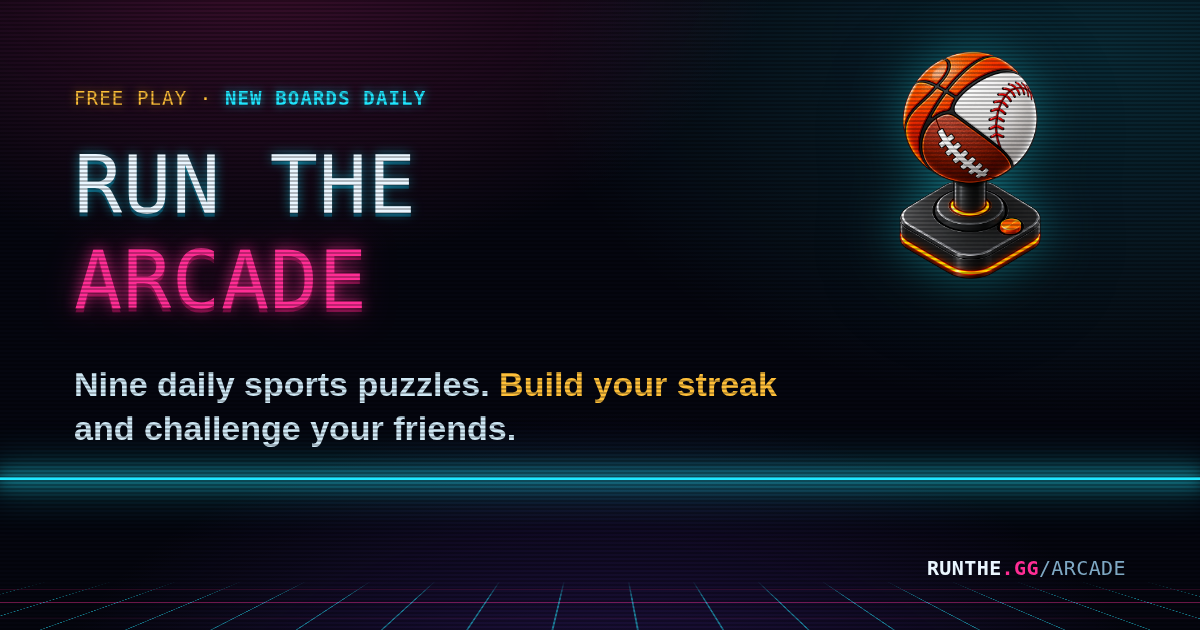
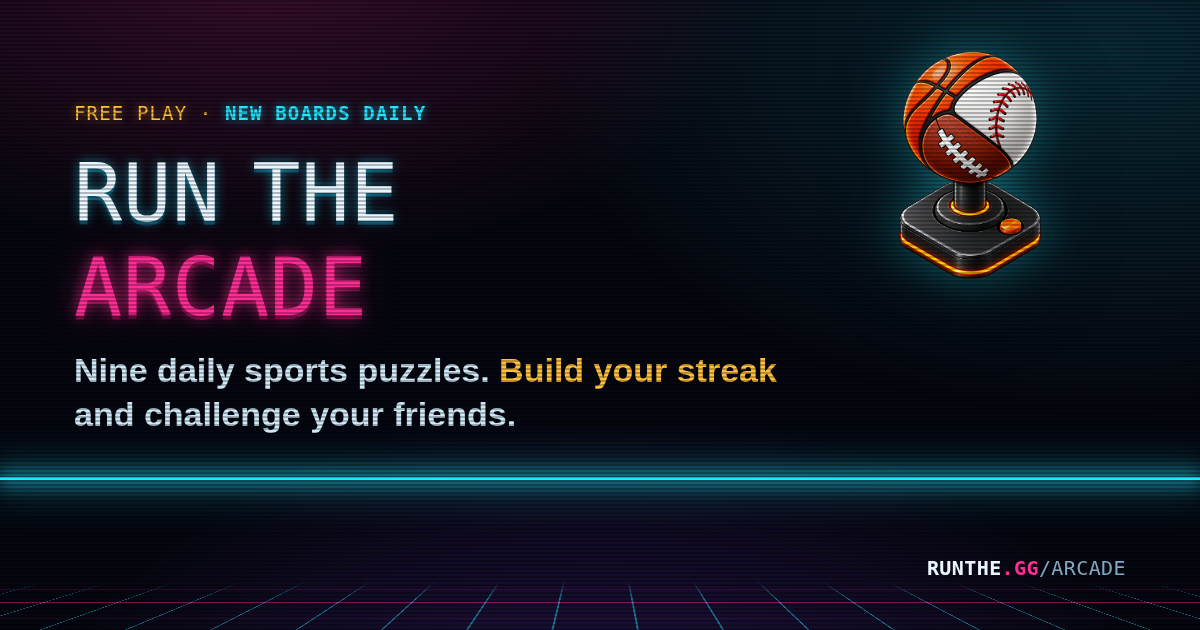
Tighten arcade OG headline spacing
Bring RUN and THE closer (word-spacing:-.22em), pull ARCADE up next to
the line above (line-height 1.0 + tighter .two margin), and raise the
description (margin-top 34px -> 20px). Regenerate arcade-share.png.

diff --git a/arcade/og-source.html b/arcade/og-source.html
@@ -32,12 +32,12 @@
     text-shadow:0 0 10px rgba(255,176,32,.6)}
   .eyebrow b{color:#21E6FF;text-shadow:0 0 10px rgba(33,230,255,.7)}
   h1{font-family:'Press Start 2P',monospace;font-weight:400;text-transform:uppercase;
-    font-size:80px;line-height:1.18;letter-spacing:.01em}
-  h1 .one{color:#EAF6FF;text-shadow:0 0 12px rgba(33,230,255,.55),0 4px 0 #0a3a52}
-  h1 .two{color:#FF2D95;
+    font-size:80px;line-height:1.0;letter-spacing:.01em}
+  h1 .one{color:#EAF6FF;text-shadow:0 0 12px rgba(33,230,255,.55),0 4px 0 #0a3a52;word-spacing:-.22em}
+  h1 .two{display:inline-block;margin-top:14px;color:#FF2D95;
     text-shadow:0 0 14px rgba(255,45,149,.75),0 0 34px rgba(255,45,149,.5),0 4px 0 #5a0b34}
   .sub{font-family:'Archivo',sans-serif;font-weight:800;font-size:34px;color:#CFE8F5;
-    margin-top:34px;max-width:720px;line-height:1.3}
+    margin-top:20px;max-width:720px;line-height:1.3}
   .sub b{color:#FFC03A}
   .url{position:absolute;right:74px;bottom:50px;text-align:right;
     font-family:'Press Start 2P',monospace;font-weight:400;font-size:20px;letter-spacing:.02em;color:#7FA9C4}
